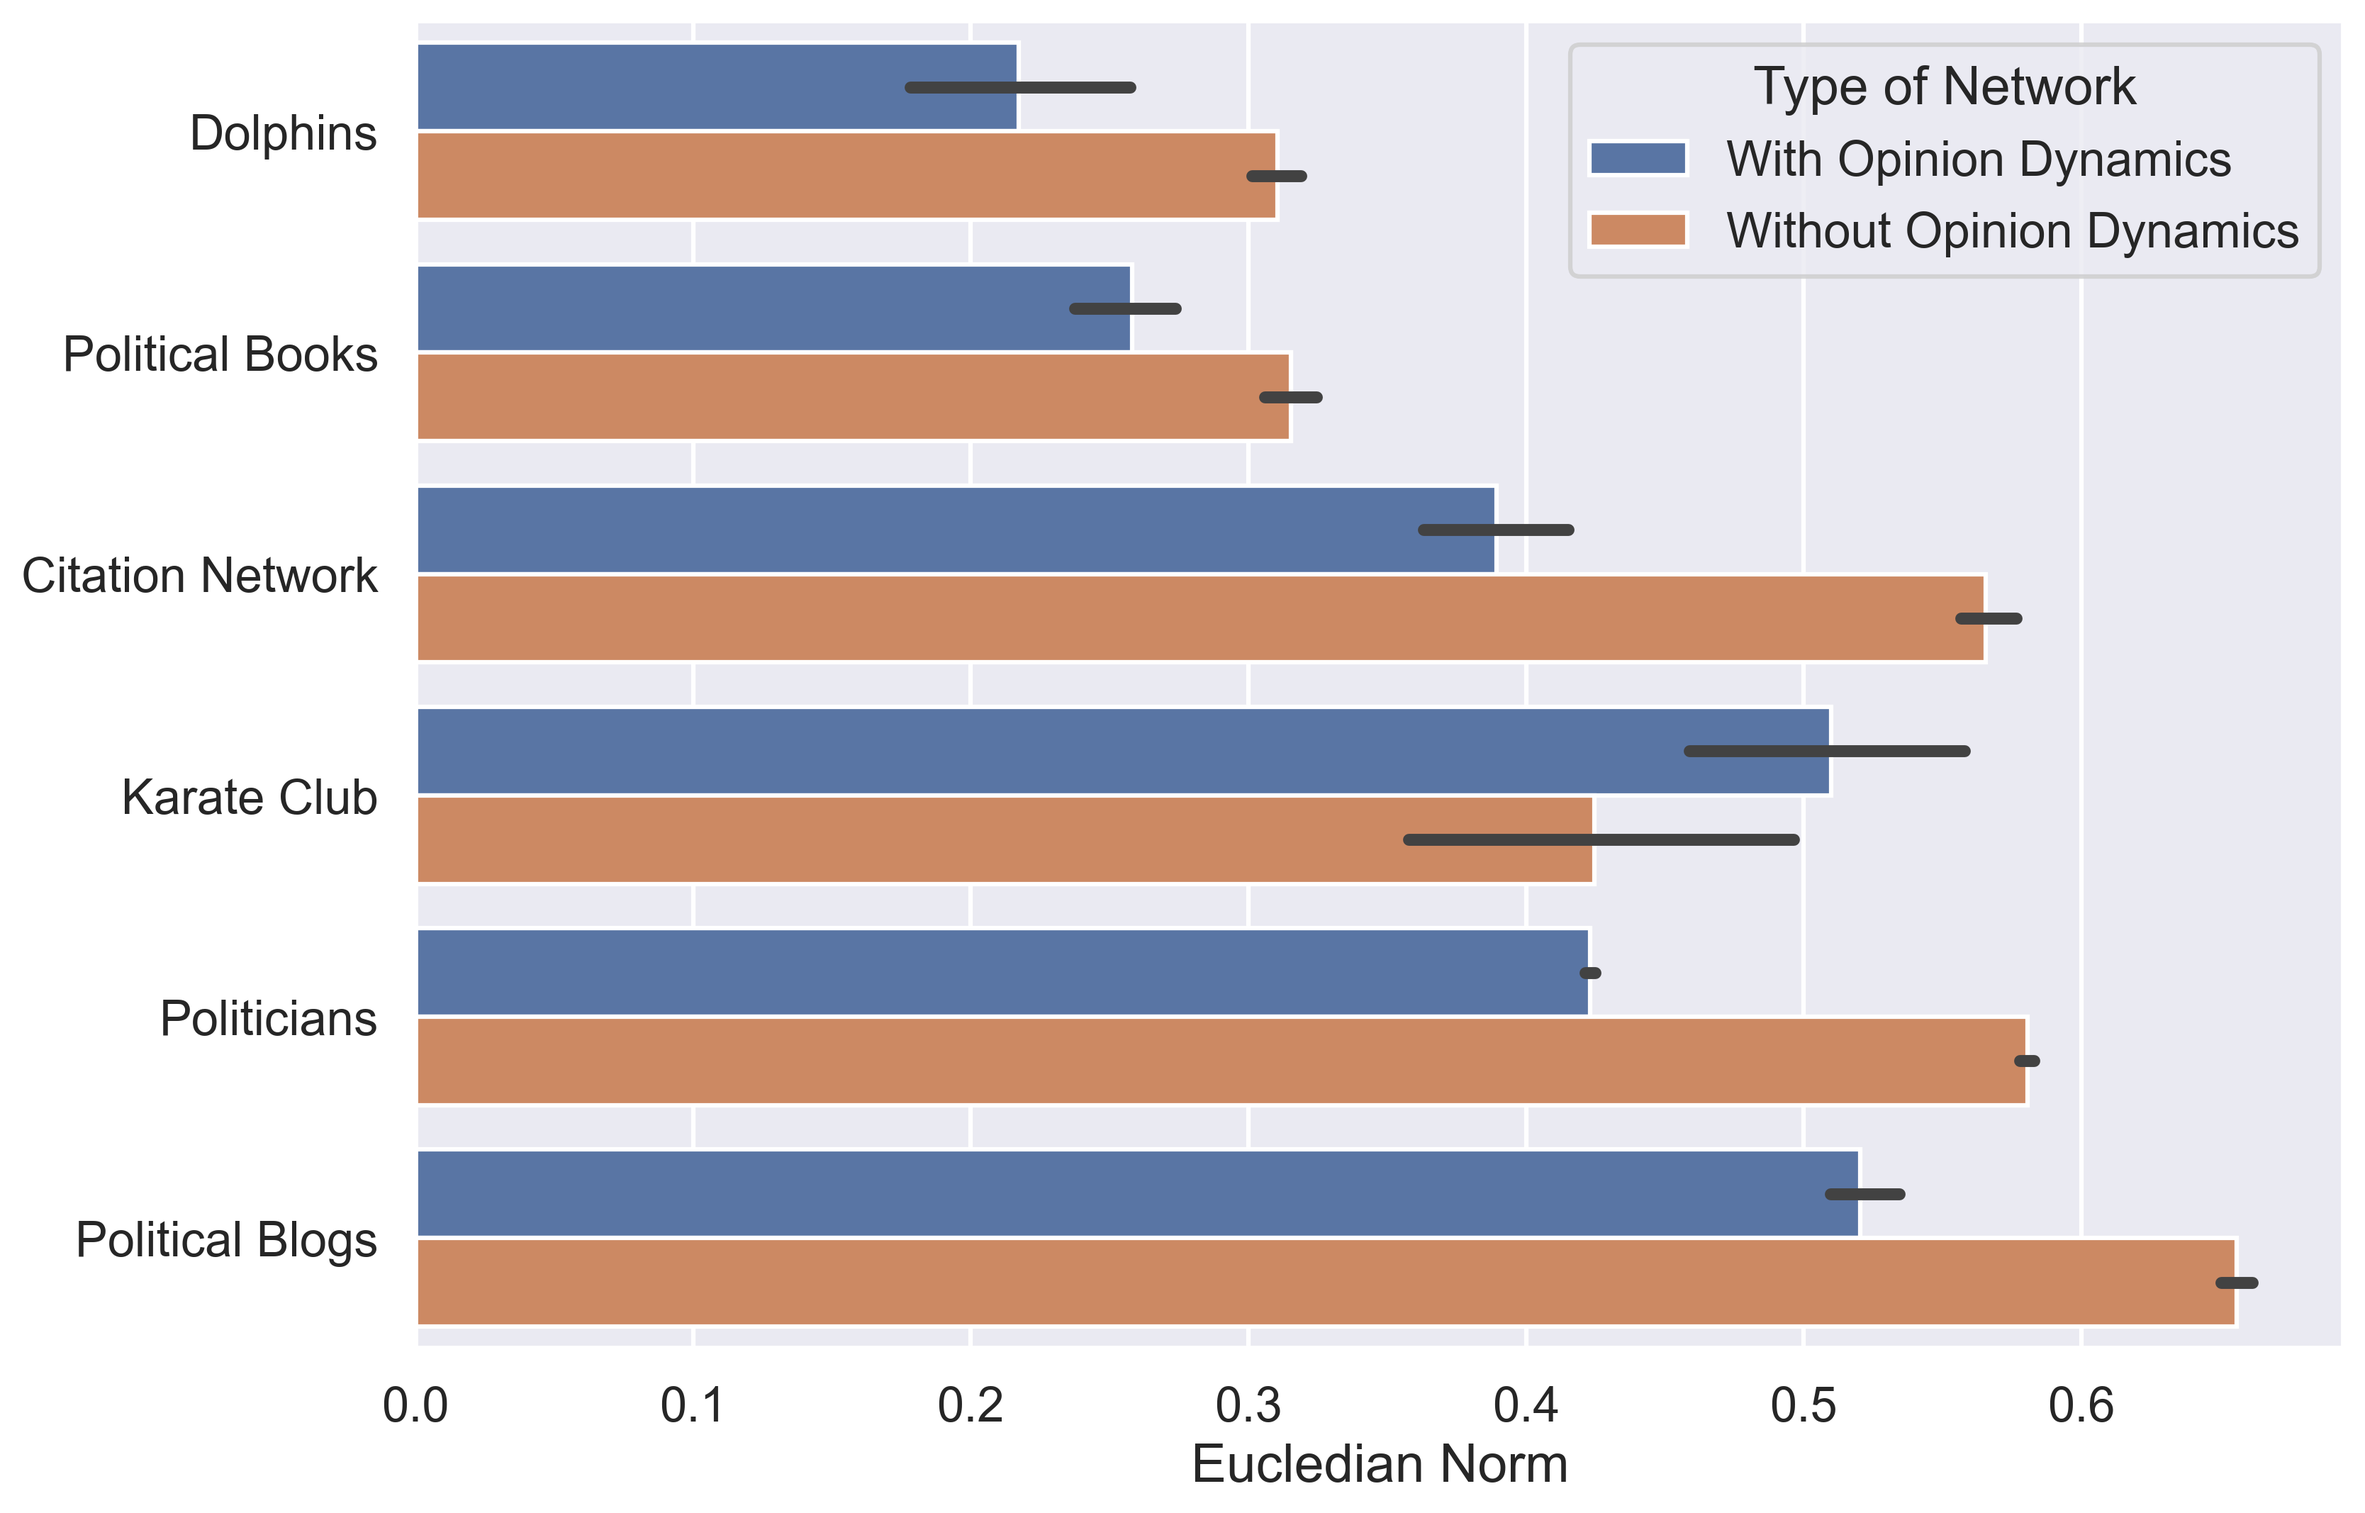
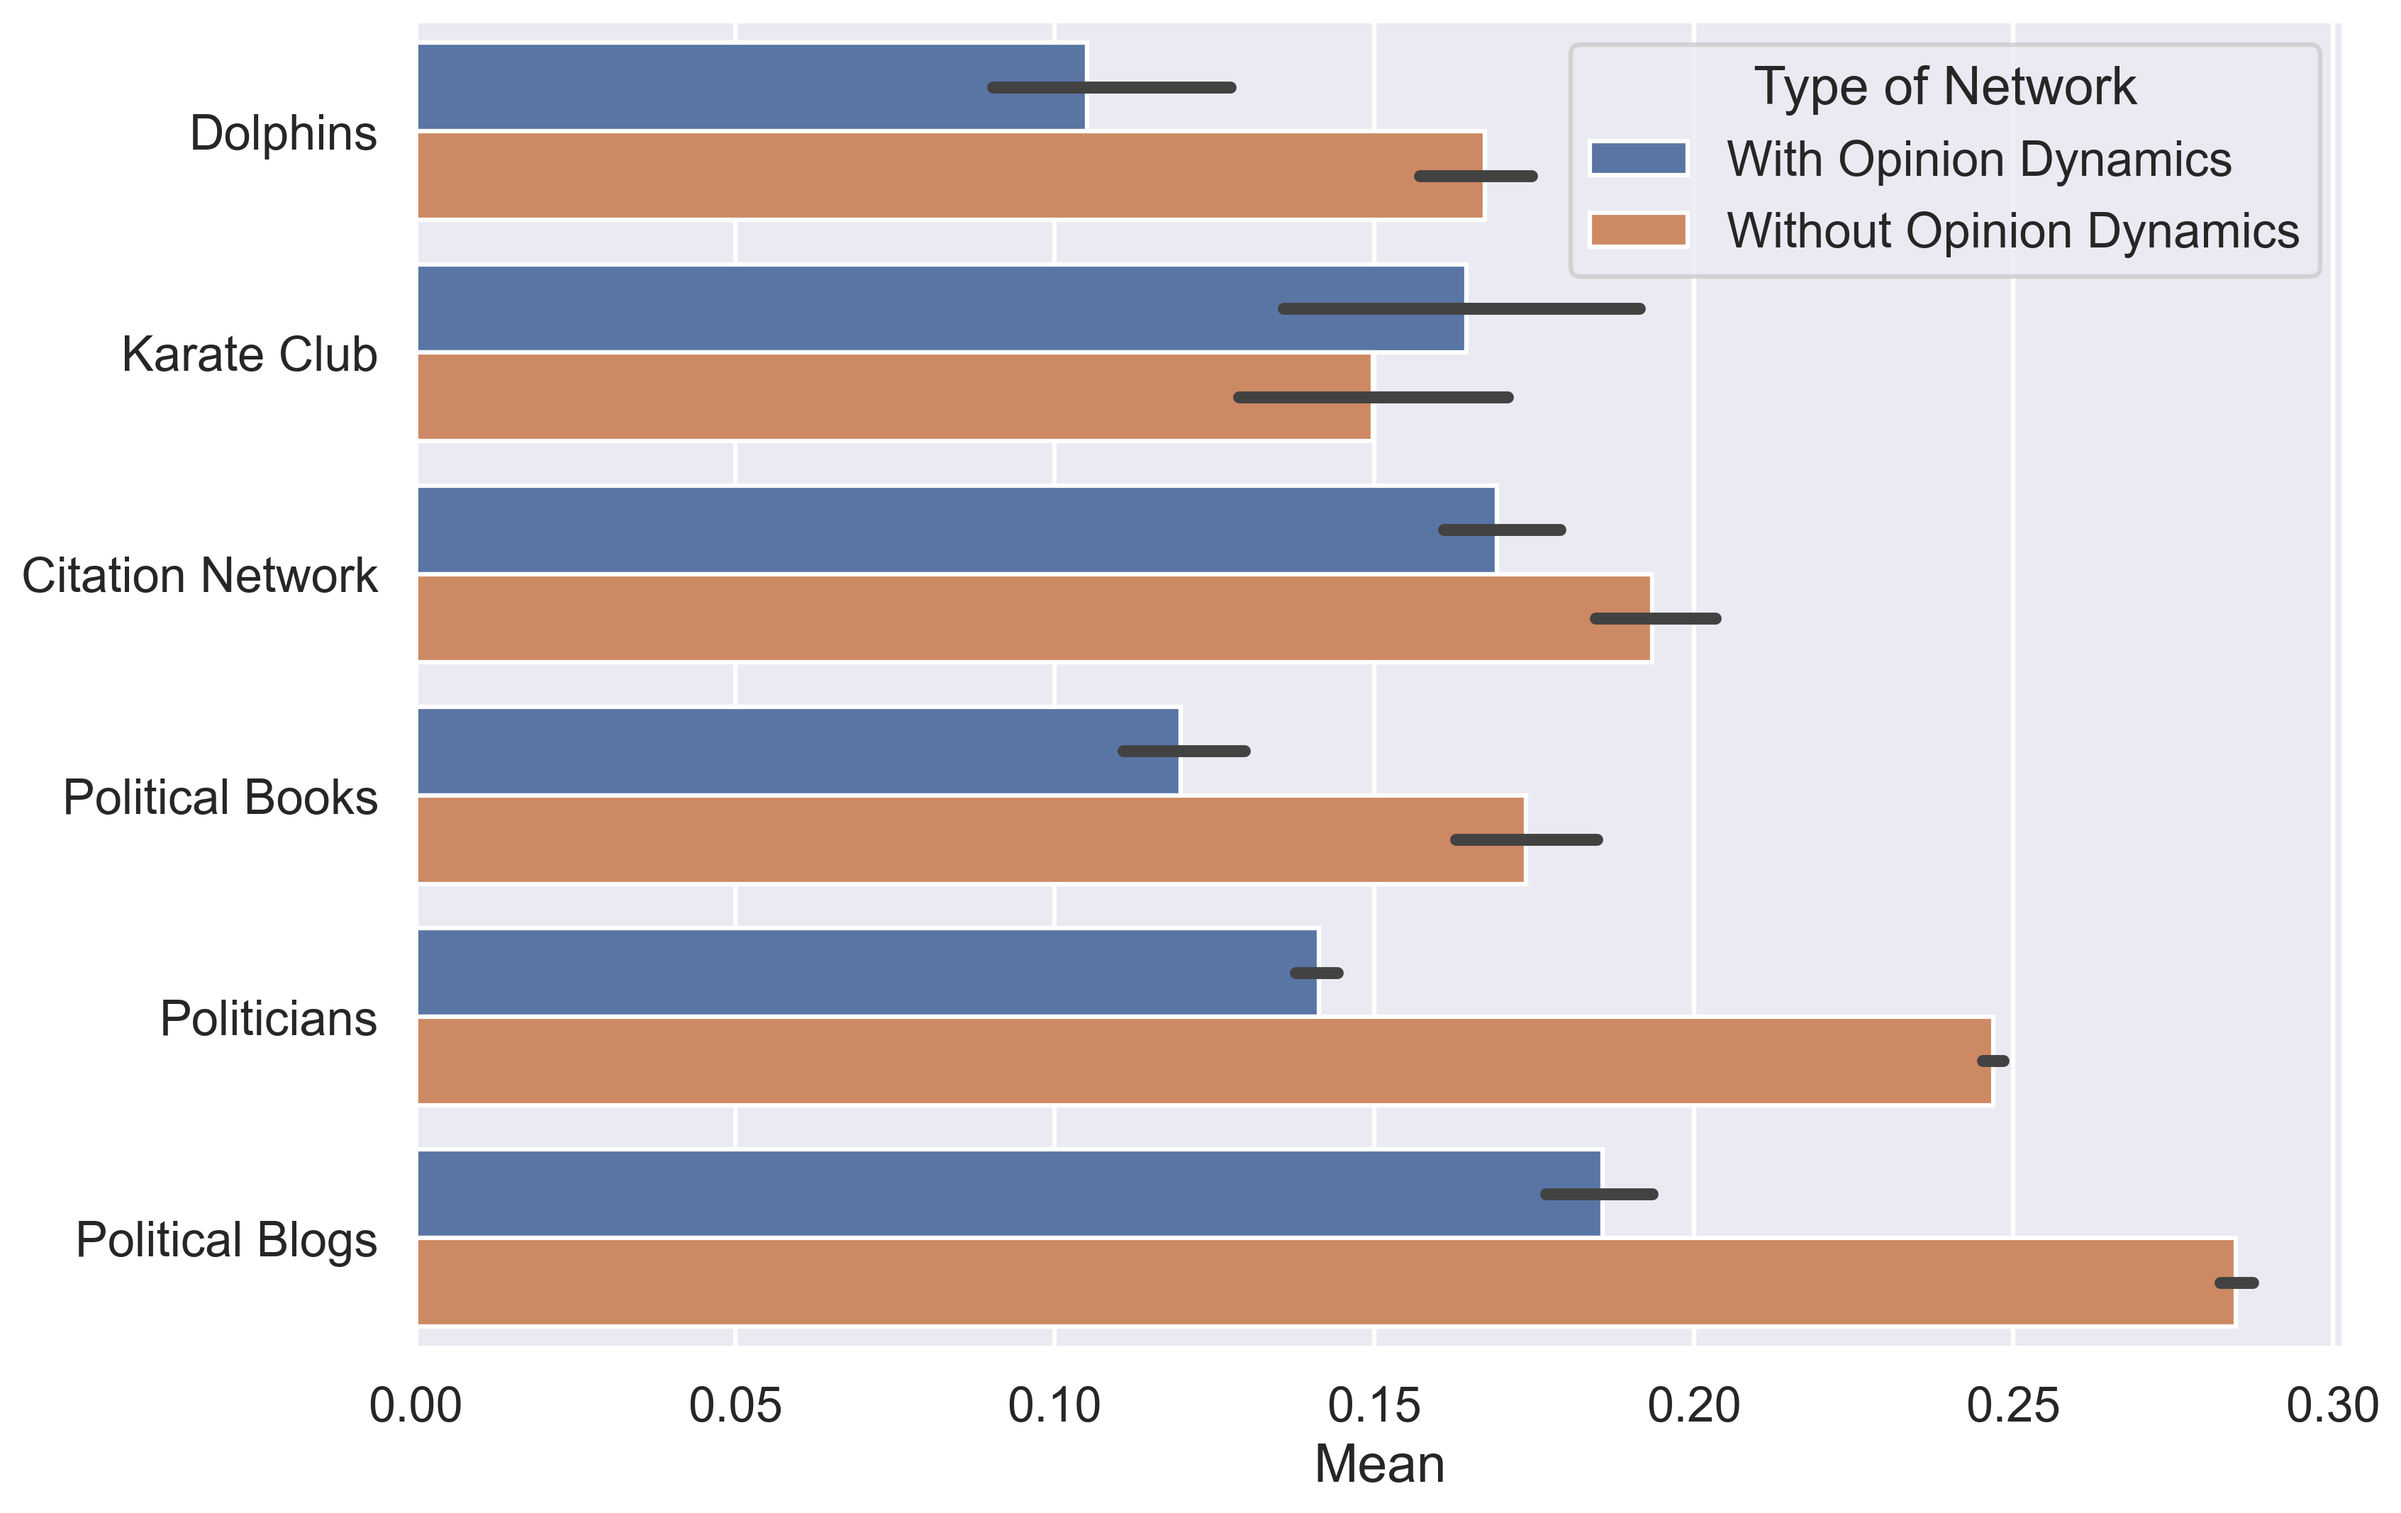
new optimization

diff --git a/LaDoN/ladon/write_evaluation.py b/LaDoN/ladon/write_evaluation.py
@@ -16,16 +16,16 @@ sns.set_context("talk")
 blue_pallette = sns.dark_palette("#69d", reverse=True, as_cmap=True)
 
 
-def get_mean(model, target_dictionary, network):
+def get_mean(model, target_dictionary, network, denominator):
     clustering_diff = abs(
         nx.algorithms.cluster.average_clustering(model.graph)
         - (target_dictionary.get("clustering")[0])
     )
     network_avg_path = find_average_path(model.graph)
 
-    average_path_diff = abs(
-        network_avg_path - target_dictionary.get("average_path")[0]
-    ) / max([network_avg_path, target_dictionary.get("average_path")[0]])
+    average_path_diff = (
+        abs(network_avg_path - target_dictionary.get("average_path")[0]) / denominator
+    )
 
     distance_algorithm = netrd.distance.DegreeDivergence()
     JSD = distance_algorithm.dist(model.graph, network)
@@ -34,7 +34,7 @@ def get_mean(model, target_dictionary, network):
     return mean
 
 
-def generate_network_dataframe():
+def generate_network_dataframe(repeats: int):
 
     list_of_dictionaries = []
     for name, network in NAME_DICTIONARY.items():
@@ -62,6 +62,13 @@ def generate_network_dataframe():
         N_EDGES = network.number_of_edges()
         K = round(N_EDGES / N_TARGET)
 
+        denominator_graph = nx.watts_strogatz_graph(
+            n=network.number_of_nodes(),
+            k=2 * K,
+            p=0,
+        )
+        denominator = find_average_path(denominator_graph)
+
         dictionary = {
             "THRESHOLD": best_parameters.get("threshold"),
             "N_TARGET": N_TARGET,
@@ -76,7 +83,8 @@ def generate_network_dataframe():
         }
 
         best_study_opinion_networks = [
-            make_network_by_seed(dictionary=dictionary, run=run) for run in range(5)
+            make_network_by_seed(dictionary=dictionary, run=run)
+            for run in range(repeats)
         ]
 
         distance_algorithm = netrd.distance.DegreeDivergence()
@@ -99,6 +107,7 @@ def generate_network_dataframe():
                         model=model,
                         target_dictionary=target_dictionary,
                         network=network,
+                        denominator=denominator,
                     )
                 ],
             }
@@ -124,7 +133,7 @@ def generate_network_dataframe():
 
         best_study_no_opinion_networks = [
             make_no_opinion_network_by_seed(dictionary=dictionary, run=run)
-            for run in range(5)
+            for run in range(repeats)
         ]
 
         distance_algorithm = netrd.distance.DegreeDivergence()
@@ -147,6 +156,7 @@ def generate_network_dataframe():
                         model=model,
                         target_dictionary=target_dictionary,
                         network=network,
+                        denominator=denominator,
                     )
                 ],
             }
@@ -159,7 +169,7 @@ def generate_network_dataframe():
 
 
 if __name__ == "__main__":
-    data = generate_network_dataframe()
+    data = generate_network_dataframe(repeats=10)
     with open(
         f"analysis/data/optimization/data_from_all_runs.pkl",
         "wb",

diff --git a/LaDoN/ladon/optimize.py b/LaDoN/ladon/optimize.py
@@ -41,7 +41,10 @@ def make_network_by_seed(dictionary, run):
 
 
 def run_single_simulation(
-    dictionary: Dict, run: int, target: nx.Graph(), target_dictionary: Dict
+    dictionary: Dict,
+    run: int,
+    target: nx.Graph(),
+    target_dictionary: Dict,
 ):
     """Run a single simulation and return the eucledian norm of the vector of differences.
 
@@ -68,7 +71,7 @@ def run_single_simulation(
 
     average_path_diff = abs(
         network_avg_path - target_dictionary.get("average_path")
-    ) / max([network_avg_path, target_dictionary.get("average_path")])
+    ) / target_dictionary.get("denominator")
 
     distance_algorithm = netrd.distance.DegreeDivergence()
     JSD = distance_algorithm.dist(my_network.graph, target)
@@ -81,7 +84,7 @@ def objective(trial, target, repeats, target_dictionary):
     N_TARGET = target.number_of_nodes()
     N_EDGES = target.number_of_edges()
     K = round(N_EDGES / N_TARGET)
-    threshold = trial.suggest_float("threshold", 0.4, 1.3)
+    threshold = trial.suggest_float("threshold", 0.2, 1.3)
     randomness = trial.suggest_float("randomness", 0, 1)
     positive_learning_rate = trial.suggest_float("positive_learning_rate", 0.05, 0.5)
     negative_learning_rate = trial.suggest_float("negative_learning_rate", 0.05, 0.5)
@@ -113,6 +116,12 @@ if __name__ == "__main__":
 
     for name, network in NAME_DICTIONARY.items():
         network = get_main_component(network=network)
+        denominator_graph = nx.watts_strogatz_graph(
+            n=network.number_of_nodes(),
+            k=2 * round(network.number_of_edges() / network.number_of_nodes()),
+            p=0,
+        )
+        denominator = find_average_path(denominator_graph)
         print(f"--- NOW RUNNING: {name} ---")
         study = optuna.create_study(study_name=name, direction="minimize")
         target_dictionary = {
@@ -121,6 +130,7 @@ if __name__ == "__main__":
                 network
             ),
             "average_path": find_average_path(network),
+            "denominator": denominator,
         }
         study.optimize(
             lambda trial: objective(trial, network, 1, target_dictionary), n_trials=500

diff --git a/LaDoN/ladon/optimize_no_opinion.py b/LaDoN/ladon/optimize_no_opinion.py
@@ -55,7 +55,7 @@ def run_single_simulation(dictionary, run, target, target_dictionary):
 
     average_path_diff = abs(
         network_avg_path - target_dictionary.get("average_path")
-    ) / max([network_avg_path, target_dictionary.get("average_path")])
+    ) / target_dictionary.get("denominator")
 
     distance_algorithm = netrd.distance.DegreeDivergence()
     JSD = distance_algorithm.dist(my_network.graph, target)
@@ -96,6 +96,12 @@ if __name__ == "__main__":
     for name, network in NAME_DICTIONARY.items():
         print(f"--- NOW RUNNING: {name} ---")
         network = get_main_component(network)
+        denominator_graph = nx.watts_strogatz_graph(
+            n=network.number_of_nodes(),
+            k=2 * round(network.number_of_edges() / network.number_of_nodes()),
+            p=0,
+        )
+        denominator = find_average_path(denominator_graph)
         study = optuna.create_study(study_name=name, direction="minimize")
         target_dictionary = {
             "clustering": nx.algorithms.cluster.average_clustering(network),
@@ -103,6 +109,7 @@ if __name__ == "__main__":
                 network
             ),
             "average_path": find_average_path(network),
+            "denominator": denominator,
         }
         study.optimize(
             lambda trial: objective(trial, network, 1, target_dictionary), n_trials=500

diff --git a/LaDoN/ladon/evaluate.py b/LaDoN/ladon/evaluate.py
@@ -47,25 +47,24 @@ data = pd.concat([pd.DataFrame(x) for x in data])
 
 data["type"] = data["type"].apply(lambda x: change_labels(x))
 data["network"] = data["network"].apply(lambda x: change_network_labels(x))
-sns.barplot(data=data, x="network", y="clustering", hue="type")
-sns.barplot(data=data, x="network", y="average_path", hue="type")
-sns.barplot(data=data, x="network", y="assortativity", hue="type")
-sns.barplot(data=data, x="network", y="JSD", hue="type")
+sns.barplot(data=data, y="network", x="clustering", hue="type")
+sns.barplot(data=data, y="network", x="average_path", hue="type")
+sns.barplot(data=data.query("type != 'Target'"), y="network", x="JSD", hue="type")
 
 g = sns.barplot(
     data=data.query("type != 'Target'"),
     y="network",
-    x="norm",
+    x="mean",
     hue="type",
     order=[
         "Dolphins",
-        "Political Books",
-        "Citation Network",
         "Karate Club",
+        "Citation Network",
+        "Political Books",
         "Politicians",
         "Political Blogs",
     ],
 )
-g.set(xlabel="Eucledian Norm", ylabel="")
+g.set(xlabel="Mean", ylabel="")
 plt.legend(title="Type of Network")
 plt.savefig("plots/overall/Model_Evaluation.png", dpi=300, bbox_inches="tight")

diff --git a/LaDoN/ladon/load_files_over_time.py b/LaDoN/ladon/load_files_over_time.py
@@ -300,16 +300,16 @@ sns.lineplot(
     hue="polarized",
     hue_order=["Polarized", "Inbetween", "Consensus"],
     estimator=None,
-    alpha=0.1,
+    alpha=0.05,
     ci=None,
-    # linewidth=0.1,
+    linewidth=3,
     err_style=None,
     units="unique_condition",
     palette=sns.color_palette("deep", n_colors=3),
 ).set(ylabel=r"$|O|$", xlabel=r"$t$")
 plt.legend(
     title="Final State",
-    bbox_to_anchor=(1.0, 0.5),
+    bbox_to_anchor=(1.0, 0.6),
 )
 
 sns.lineplot(
